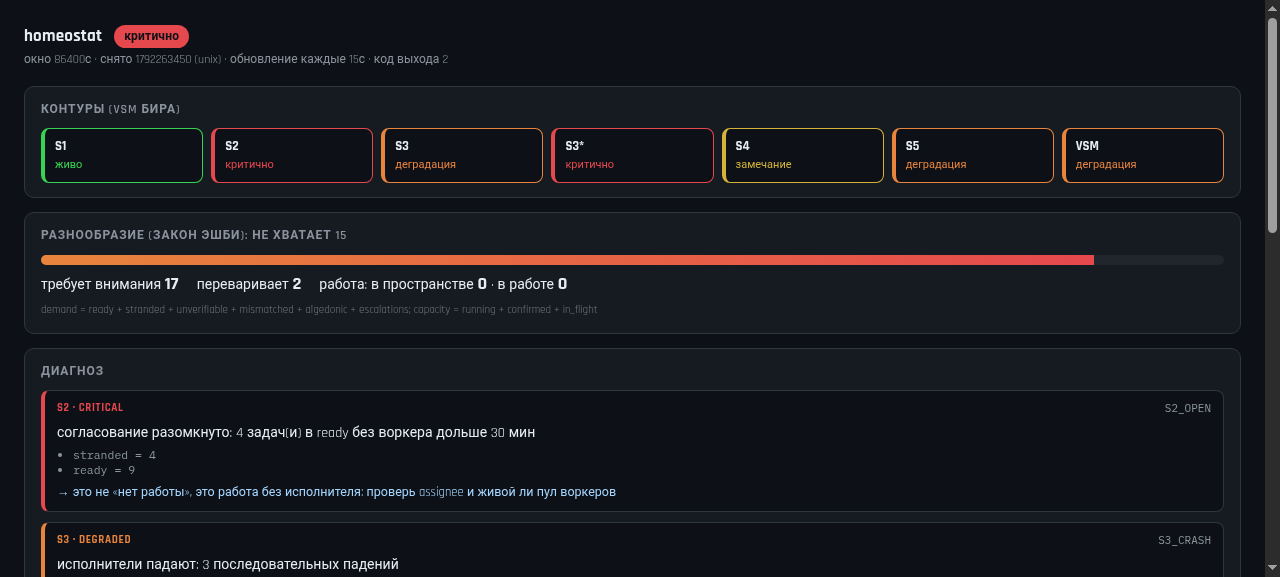
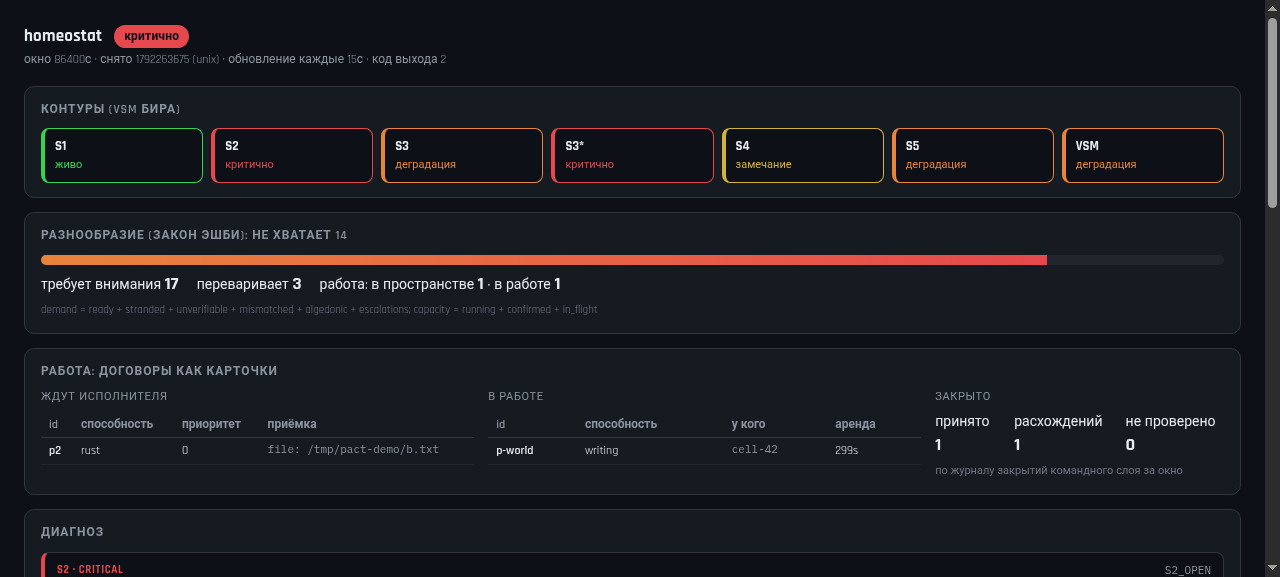
panel: доска договоров — ждут / в работе / закрыто, как у канбана
- вход --pacts: GET /tuples из tupleboard → карточки договоров (id, способность, приёмка,
  у кого, остаток аренды)
- третья колонка «закрыто» считает принято/расхождений/не проверено из журнала аудита
- 22 теста; скриншот docs/panel.png переснят на живых данных (p2 ждёт, p-world у cell-42)

diff --git a/src/sources.rs b/src/sources.rs
@@ -3,7 +3,7 @@
 //! Каждый источник возвращает [`InputState`] — и если файла нет, это видно в отчёте,
 //! а не превращается в ноль. Молчаливый ноль — главный способ соврать в мониторинге.
 
-use crate::{now, Facts, InputState};
+use crate::{now, Facts, InputState, PactRow};
 use serde_json::Value;
 use std::fs;
 use std::path::Path;
@@ -214,6 +214,65 @@ pub fn load_tupleboard(path: &Path, facts: &mut Facts) -> InputState {
     state
 }
 
+fn pact_row(fields: &Value, owner: &str, lease_in: u64) -> Option<PactRow> {
+    let row = fields.as_array()?;
+    if row.len() != 5 || row[0].as_str()? != "pact" {
+        return None;
+    }
+    let contract = row[4].clone();
+    let accepts = format!(
+        "{}: {}",
+        contract["accepts"]["kind"].as_str().unwrap_or("?"),
+        contract["accepts"]["value"].as_str().unwrap_or("?")
+    );
+    Some(PactRow {
+        id: row[3].as_str().unwrap_or("?").to_string(),
+        capability: row[1].as_str().unwrap_or("?").to_string(),
+        priority: row[2].as_i64().unwrap_or(0),
+        accepts,
+        owner: owner.to_string(),
+        lease_in,
+    })
+}
+
+/// Доска договоров: `tupleboard` `GET /tuples`, снятый в файл.
+pub fn load_pacts(path: &Path, facts: &mut Facts) -> InputState {
+    let Ok(raw) = fs::read_to_string(path) else {
+        return unreadable(path, facts, "pacts");
+    };
+    let Ok(value) = serde_json::from_str::<Value>(&raw) else {
+        return unreadable(path, facts, "pacts");
+    };
+    if let Some(rows) = value.get("in_space").and_then(Value::as_array) {
+        for row in rows {
+            if let Some(pact) = pact_row(&row["fields"], "", 0) {
+                facts.pacts_waiting.push(pact);
+            }
+        }
+    }
+    if let Some(rows) = value.get("in_flight").and_then(Value::as_array) {
+        for row in rows {
+            let owner = row["owner"].as_str().unwrap_or("anonymous");
+            let lease = row["deadline_in"].as_u64().unwrap_or(0);
+            if let Some(pact) = pact_row(&row["fields"], owner, lease) {
+                facts.pacts_in_work.push(pact);
+            }
+        }
+    }
+    let state = input(
+        "pacts",
+        &path.display().to_string(),
+        true,
+        format!(
+            "ждут {}, в работе {}",
+            facts.pacts_waiting.len(),
+            facts.pacts_in_work.len()
+        ),
+    );
+    facts.inputs.push(state.clone());
+    state
+}
+
 /// Среда: изменения снаружи (например, события сканера архива).
 pub fn load_outlook(path: &Path, window: u64, facts: &mut Facts) -> InputState {
     let cutoff = now().saturating_sub(window);
@@ -357,6 +416,39 @@ mod tests {
         let mut facts = Facts::default();
         load_tupleboard(&path, &mut facts);
         assert_eq!((facts.in_space, facts.in_flight, facts.refusals), (3, 2, 4));
+        let _ = fs::remove_dir_all(&dir);
+    }
+
+    #[test]
+    fn pact_board_is_read_from_tuples_dump() {
+        let dir = temp_dir("pacts");
+        let path = dir.join("tuples.json");
+        fs::write(
+            &path,
+            serde_json::json!({
+                "in_space": [
+                    {"fields": ["pact", "rust", 5, "p1", {"id":"p1","capability":"rust","accepts":{"kind":"file","value":"/tmp/a"}}]},
+                    {"fields": ["что-то", "другое"]}
+                ],
+                "in_flight": [
+                    {"owner": "cell-1", "deadline_in": 42,
+                     "fields": ["pact", "python", 1, "p2", {"id":"p2","capability":"python","accepts":{"kind":"url","value":"https://x"}}]}
+                ]
+            })
+            .to_string(),
+        )
+        .unwrap();
+        let mut facts = Facts::default();
+        load_pacts(&path, &mut facts);
+        assert_eq!(
+            facts.pacts_waiting.len(),
+            1,
+            "только договоры, не любые кортежи"
+        );
+        assert_eq!(facts.pacts_waiting[0].id, "p1");
+        assert_eq!(facts.pacts_waiting[0].accepts, "file: /tmp/a");
+        assert_eq!(facts.pacts_in_work[0].owner, "cell-1");
+        assert_eq!(facts.pacts_in_work[0].lease_in, 42);
         let _ = fs::remove_dir_all(&dir);
     }
 

diff --git a/src/dashboard.rs b/src/dashboard.rs
@@ -63,6 +63,52 @@ pub fn render(report: &Report, not_connected: &[String]) -> String {
         ));
     }
 
+    let mut waiting = String::new();
+    if report.facts.pacts_waiting.is_empty() {
+        waiting.push_str(r#"<div class="foot">договоров в ожидании нет</div>"#);
+    } else {
+        waiting.push_str(
+            r#"<table><tr><th>id</th><th>способность</th><th>приоритет</th><th>приёмка</th></tr>"#,
+        );
+        for pact in &report.facts.pacts_waiting {
+            waiting.push_str(&format!(
+                r#"<tr><td class="name">{id}</td><td>{cap}</td><td>{prio}</td><td class="src">{accepts}</td></tr>"#,
+                id = escape(&pact.id),
+                cap = escape(&pact.capability),
+                prio = pact.priority,
+                accepts = escape(&pact.accepts)
+            ));
+        }
+        waiting.push_str("</table>");
+    }
+
+    let mut in_work = String::new();
+    if report.facts.pacts_in_work.is_empty() {
+        in_work.push_str(r#"<div class="foot">никто не держит договор</div>"#);
+    } else {
+        in_work.push_str(
+            r#"<table><tr><th>id</th><th>способность</th><th>у кого</th><th>аренда</th></tr>"#,
+        );
+        for pact in &report.facts.pacts_in_work {
+            in_work.push_str(&format!(
+                r#"<tr><td class="name">{id}</td><td>{cap}</td><td class="src">{owner}</td><td>{lease}s</td></tr>"#,
+                id = escape(&pact.id),
+                cap = escape(&pact.capability),
+                owner = escape(&pact.owner),
+                lease = pact.lease_in
+            ));
+        }
+        in_work.push_str("</table>");
+    }
+
+    let closed = format!(
+        r#"<div class="nums"><div>принято <b>{accepted}</b></div><div>расхождений <b>{bad}</b></div><div>не проверено <b>{blind}</b></div></div>
+           <div class="foot">по журналу закрытий командного слоя за окно</div>"#,
+        accepted = report.facts.confirmed,
+        bad = report.facts.mismatched,
+        blind = report.facts.unverifiable
+    );
+
     let mut diagnoses = String::new();
     if report.diagnoses.is_empty() {
         diagnoses
@@ -154,6 +200,8 @@ pub fn render(report: &Report, not_connected: &[String]) -> String {
   td.name {{ font-weight:600; white-space:nowrap; }}
   td.src, td.note {{ color:#8b949e; font-family:ui-monospace,SFMono-Regular,Menlo,monospace; font-size:11px; }}
   .foot {{ color:#6e7681; font-size:11px; margin-top:6px; }}
+  .board {{ display:grid; grid-template-columns:1.2fr 1.2fr .8fr; gap:14px; }}
+  .colhead {{ font-size:11px; text-transform:uppercase; letter-spacing:.06em; color:#8b949e; margin-bottom:6px; }}
 </style></head><body>
   <h1>homeostat <span class="verdict">{verdict_word}</span></h1>
   <div class="sub">окно {window}с · снято {taken} (unix) · обновление каждые 15с · код выхода {exit_code}</div>
@@ -173,6 +221,16 @@ pub fn render(report: &Report, not_connected: &[String]) -> String {
     </div>
     <div class="foot">demand = ready + stranded + unverifiable + mismatched + algedonic + escalations;
       capacity = running + confirmed + in_flight</div>
+  </div>
+
+
+  <div class="panel">
+    <h2>работа: договоры как карточки</h2>
+    <div class="board">
+      <div><div class="colhead">ждут исполнителя</div>{waiting}</div>
+      <div><div class="colhead">в работе</div>{in_work}</div>
+      <div><div class="colhead">закрыто</div>{closed}</div>
+    </div>
   </div>
 
   <div class="panel">
@@ -201,6 +259,9 @@ pub fn render(report: &Report, not_connected: &[String]) -> String {
         capacity = report.variety.capacity,
         in_space = report.facts.in_space,
         in_flight = report.facts.in_flight,
+        waiting = waiting,
+        in_work = in_work,
+        closed = closed,
         diagnoses = diagnoses,
         inputs = inputs
     )

diff --git a/src/main.rs b/src/main.rs
@@ -41,7 +41,7 @@ fn print_help() {
     println!(
         "homeostat — прибор живучести команды (VSM Бира, закон Эшби, POSIWID)
 
-  snapshot [--kanban PATH] [--diagnostics PATH] [--team DIR]
+  snapshot [--kanban PATH] [--diagnostics PATH] [--team DIR] [--pacts PATH]
            [--tupleboard PATH] [--outlook PATH] [--window S] [--json]
   watch    --every S [те же входы]
   serve    [--host H] [--port 8901] [те же входы]   — живая панель в браузере
@@ -51,6 +51,7 @@ fn print_help() {
   kanban       вывод `hermes kanban list --json`
   diagnostics  вывод `hermes kanban diagnostics --json`
   team         каталог журналов tupleboard (closed/escalations/algedonic/policy)
+  pacts        GET /tuples из tupleboard (доска договоров)
   tupleboard   GET /stats, сохранённый в файл
   outlook      jsonl внешних изменений (например, события сканера архива)
 
@@ -130,6 +131,9 @@ fn collect(opts: &Opts) -> (Facts, Vec<String>) {
     });
     connect("tupleboard", opts.flag("tupleboard"), &mut |path| {
         sources::load_tupleboard(path, &mut facts);
+    });
+    connect("pacts", opts.flag("pacts"), &mut |path| {
+        sources::load_pacts(path, &mut facts);
     });
     connect("outlook", opts.flag("outlook"), &mut |path| {
         sources::load_outlook(path, window, &mut facts);
@@ -351,6 +355,8 @@ fn cmd_demo() -> i32 {
         escalations: 0,
         algedonic: 0,
         algedonic_limit: 3,
+        pacts_waiting: vec![],
+        pacts_in_work: vec![],
         inputs: vec![],
     };
     let mut open = healthy.clone();

diff --git a/src/lib.rs b/src/lib.rs
@@ -99,8 +99,27 @@ pub struct InputState {
     pub note: String,
 }
 
+/// Договор так, как его видно на доске (одна строка = одна карточка).
+#[derive(Debug, Clone, Default, Serialize, Deserialize)]
+pub struct PactRow {
+    pub id: String,
+    pub capability: String,
+    pub priority: i64,
+    pub accepts: String,
+    #[serde(default)]
+    pub owner: String,
+    #[serde(default)]
+    pub lease_in: u64,
+}
+
 #[derive(Debug, Clone, Default, Serialize, Deserialize)]
 pub struct Facts {
+    /// Договоры, ждущие исполнителя.
+    #[serde(default)]
+    pub pacts_waiting: Vec<PactRow>,
+    /// Договоры, взятые в работу (у кого и на сколько).
+    #[serde(default)]
+    pub pacts_in_work: Vec<PactRow>,
     // S1 операции
     pub running: usize,
     pub assignees_working: usize,
@@ -422,6 +441,8 @@ mod tests {
             escalations: 0,
             algedonic: 0,
             algedonic_limit: 3,
+            pacts_waiting: vec![],
+            pacts_in_work: vec![],
             inputs: vec![],
         }
     }
